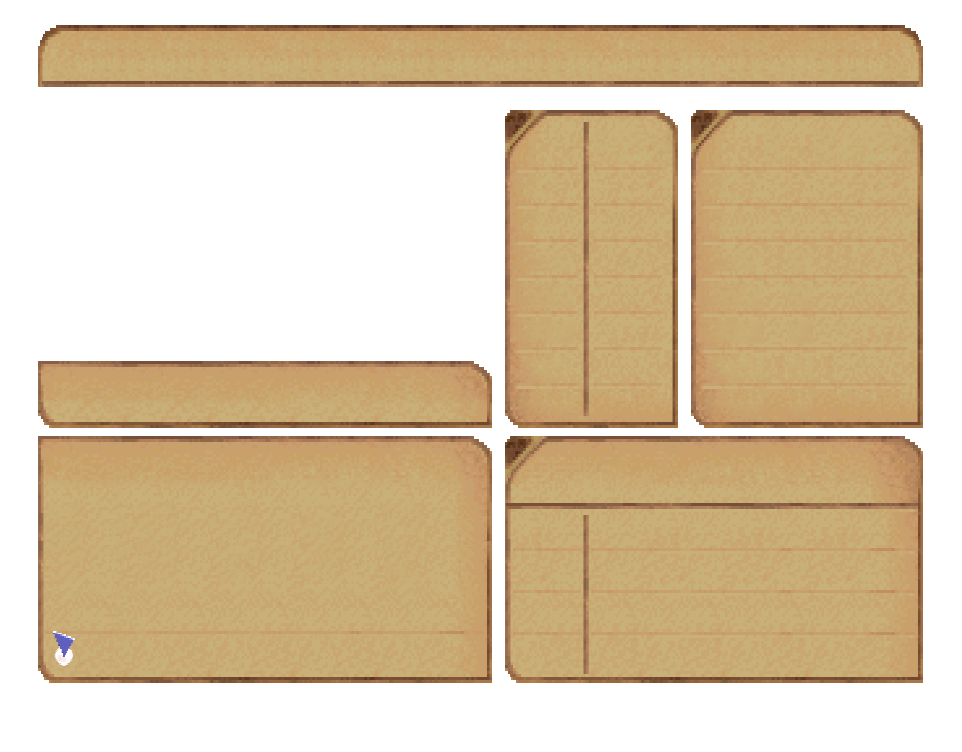
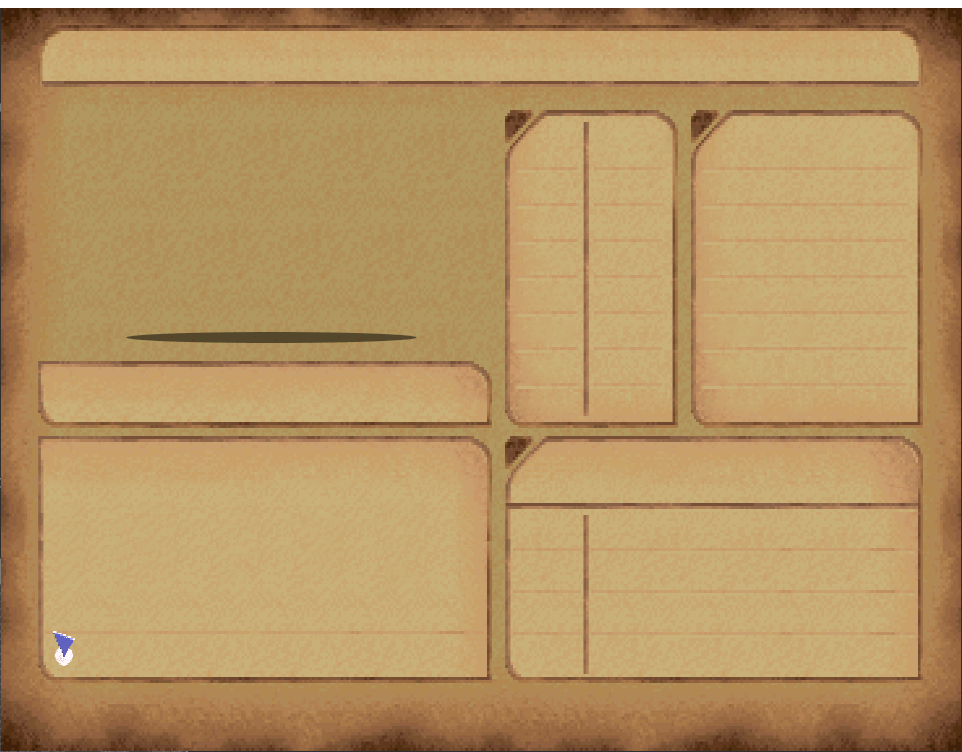
Added shadow circle for models

diff --git a/src/main/java/legend/game/inventory/screens/ArchiveBestiaryRenderer.java b/src/main/java/legend/game/inventory/screens/ArchiveBestiaryRenderer.java
@@ -444,16 +444,16 @@ public class ArchiveBestiaryRenderer {
   private void renderGraphics() {
     final float xOffset = RENDERER.getWidescreenOrthoOffsetX();
 
-    this.m.translation(xOffset, 0f, 128);
-    this.m.scale(368f, 240f, 1);
+    this.m.translation(-0.5f - xOffset, 0, 128);
+    this.m.scale(369f, 241f, 1);
 
     RENDERER
       .queueOrthoModel(this.quad, this.m, QueuedModelStandard.class)
       .texture(this.textures[0]);
 
     if(this.monster.rank > 0) {
-      this.m.translation(xOffset, 0f, 128);
-      this.m.scale(368f, 240f, 1);
+      this.m.translation(-0.5f - xOffset, 0, 128);
+      this.m.scale(369f, 241f, 1);
 
       RENDERER
         .queueOrthoModel(this.quad, this.m, QueuedModelStandard.class)
@@ -467,7 +467,7 @@ public class ArchiveBestiaryRenderer {
   private void renderModel() {
     final float xOffset = RENDERER.getWidescreenOrthoOffsetX();
 
-    this.m.translation(-22f + xOffset, 27.8f, 129);
+    this.m.translation(-22f + xOffset, 27.8f, 126);
     this.m.scale(210f, 87.3f, 1);
 
     if(this.monster.rank >= 1) {
@@ -512,7 +512,7 @@ public class ArchiveBestiaryRenderer {
 //    u = (int)(tickCount_800bb0fc / 5 / (3.0f / vsyncMode_8007a3b8) % 3);
 //    this.modelAndAnimData_800c66a8.coolonPlaceMarker.render(u, 2, 21f, 206f, 127f);
 
-    renderText(this.nf.format(this.monster.entryNumber), 14.5f, 28.5f, this.headerNumberFont, 126);
+    renderText(this.nf.format(this.monster.entryNumber), 14.5f, 28.5f, this.headerNumberFont, 125);
     renderText("Defeated: " + (this.monster.maxKill > -1 ? Math.min(this.monster.maxKill, this.monster.kill) : this.monster.kill), 23, 123, this.statsFont, 127);
 
     if(this.monster.isPerfect()) {

diff --git a/src/main/java/legend/game/inventory/screens/ArchiveScreen.java b/src/main/java/legend/game/inventory/screens/ArchiveScreen.java
@@ -49,7 +49,7 @@ public class ArchiveScreen extends MenuScreen {
       case 1 -> {
         deallocateRenderables(0);
 
-        allocateUiElement(69, 69, 0, 1); // Background left
+        allocateUiElement(69, 69, 0, 1);   // Background left
         allocateUiElement(70, 70, 192, 1); // Background right
 
         this.renderArchive();
@@ -283,6 +283,7 @@ public class ArchiveScreen extends MenuScreen {
     }
 
     if(action == INPUT_ACTION_MENU_DELETE.get()) {
+      this.loadingStage = 0;
       playMenuSound(2);
       if(this.currentArchiveType + 1 > 1) {
         this.currentArchiveType = 0;
